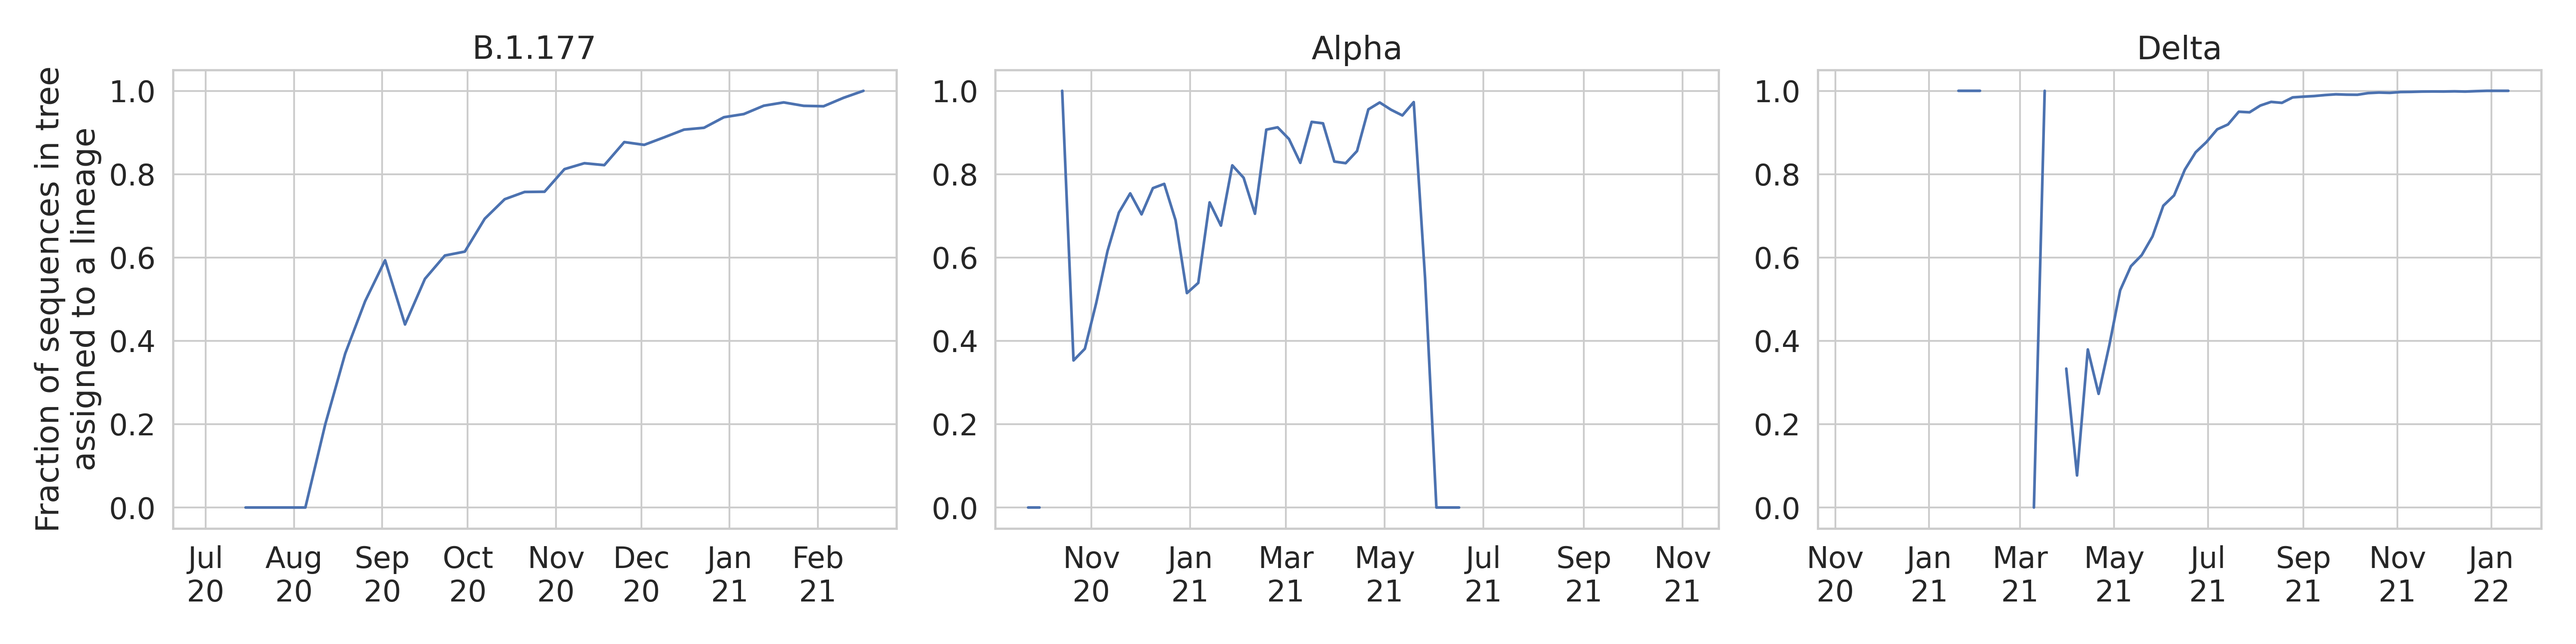
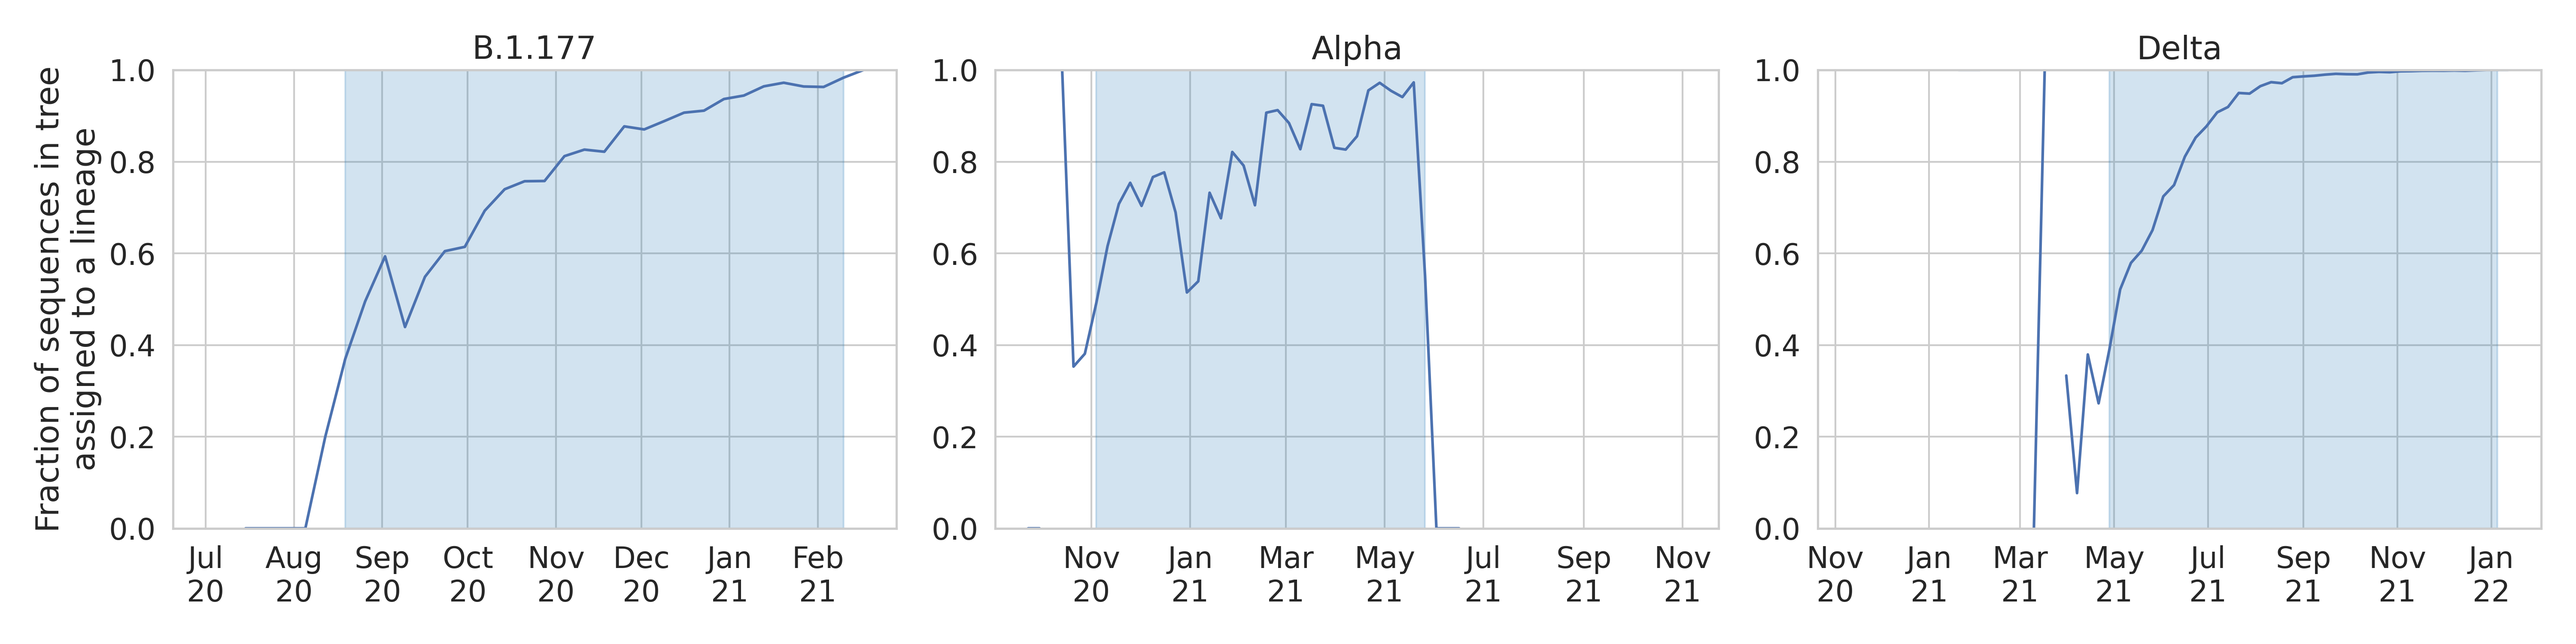
updated figure showing fraction of sequences that are assigned to a lineage to include the range of time used for the inference analysis

diff --git a/figures/figure_scripts/frac_tree_in_lineages.py b/figures/figure_scripts/frac_tree_in_lineages.py
@@ -12,10 +12,22 @@ matplotlib.rc('font', **font)
 import seaborn as sns
 sns.set(style = 'whitegrid', font_scale = 1.5)
 
+def epiweek2date(w):
+    w = int(np.floor(float(w)))
+    if w<=53:
+        week = Week(2020, w)
+    elif (w>53)&(w<=105):
+        week = Week(2021, w-53)
+    else:
+        week = Week(2022, w-53-52)
+    return week.startdate()+timedelta(days=3)
+
 variant_path_folders = ['../../data/lineages/B-1-177/B-1-177|2021-02-22|694.5/',
                        '../../data/lineages/alpha/alpha|2021-06-20|61.5/',
                        '../../data/lineages/delta/delta|2022-01-25|50.5+58.5/']
 labels = ['B.1.177', 'Alpha', 'Delta']
+
+epiweek_highlights = [(38,55),(49,70),(74,102)]
 
 fig, ax = plt.subplots(1,3, figsize = (20,5))
 
@@ -29,18 +41,17 @@ for variant_path_folder in variant_path_folders:
     epiweeks = counts_lineages.columns
     dates = []
     for w in epiweeks:
-        w = int(np.floor(float(w)))
-        if w<=53:
-            week = Week(2020, w)
-        elif (w>53)&(w<=105):
-            week = Week(2021, w-53)
-        else:
-            week = Week(2022, w-53-52)
-        dates.append(week.startdate()+timedelta(days=3))
+        dates.append(epiweek2date(w))
     dates = np.array(dates)
     ax[i].plot(dates, (counts_lineages/counts_tree).values[0])
     ax[i].xaxis.set_major_formatter(mdates.DateFormatter('%b\n%y'))
     ax[i].set_title(labels[i])
+    
+    highlight_start = epiweek2date(epiweek_highlights[i][0]-4)
+    highlight_end = epiweek2date(epiweek_highlights[i][1]+4)
+
+    ax[i].fill_between([highlight_start, highlight_end], [0,0], [1,1], color = 'tab:blue', alpha = 0.2)
+    ax[i].set_ylim([0,1])
     i+=1
 
 ax[0].set_ylabel('Fraction of sequences in tree\nassigned to a lineage')
